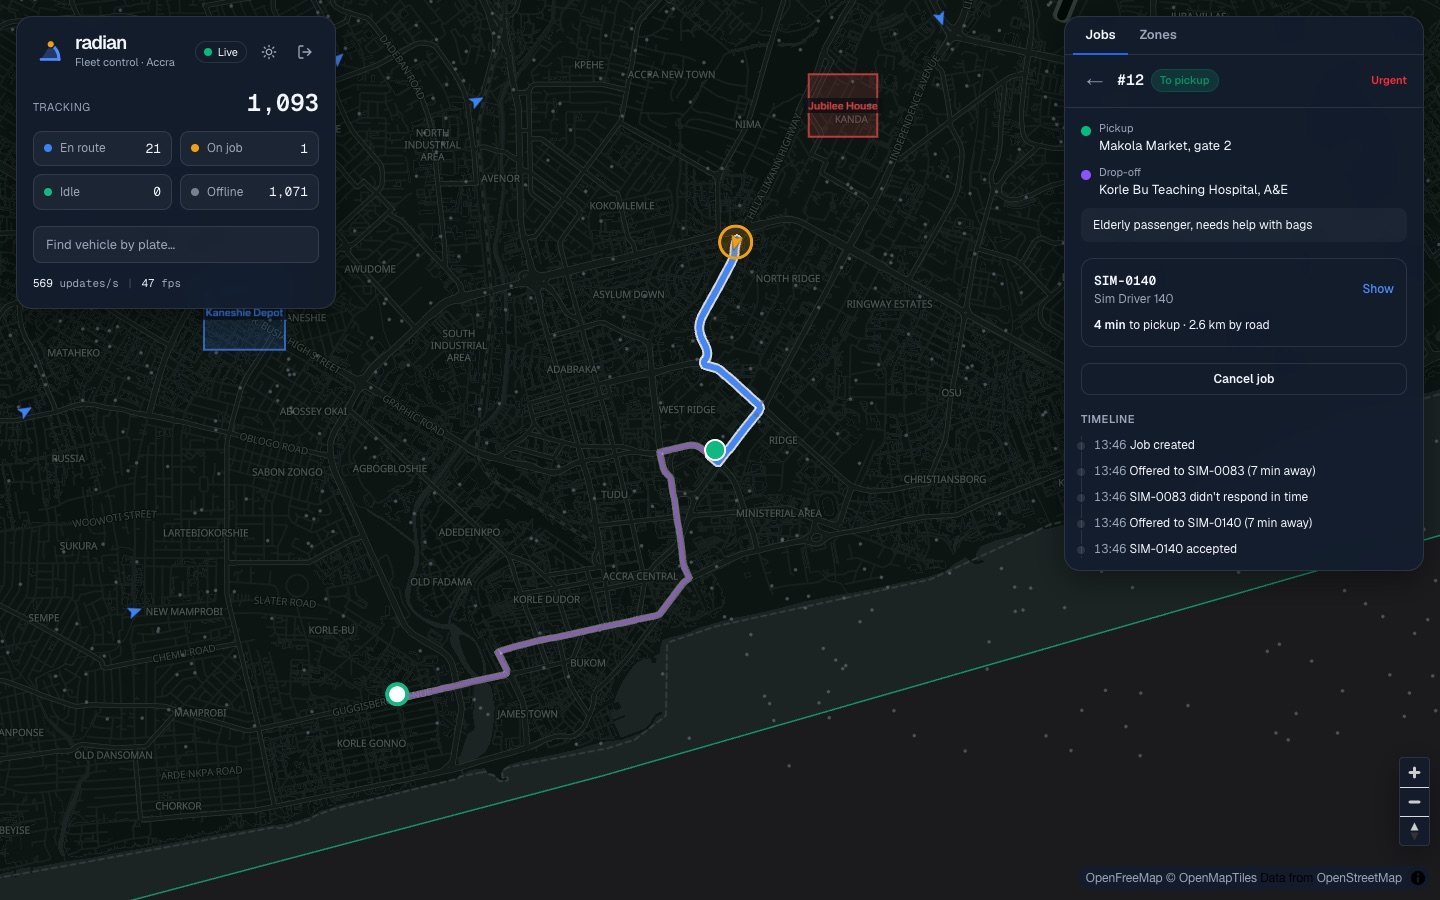
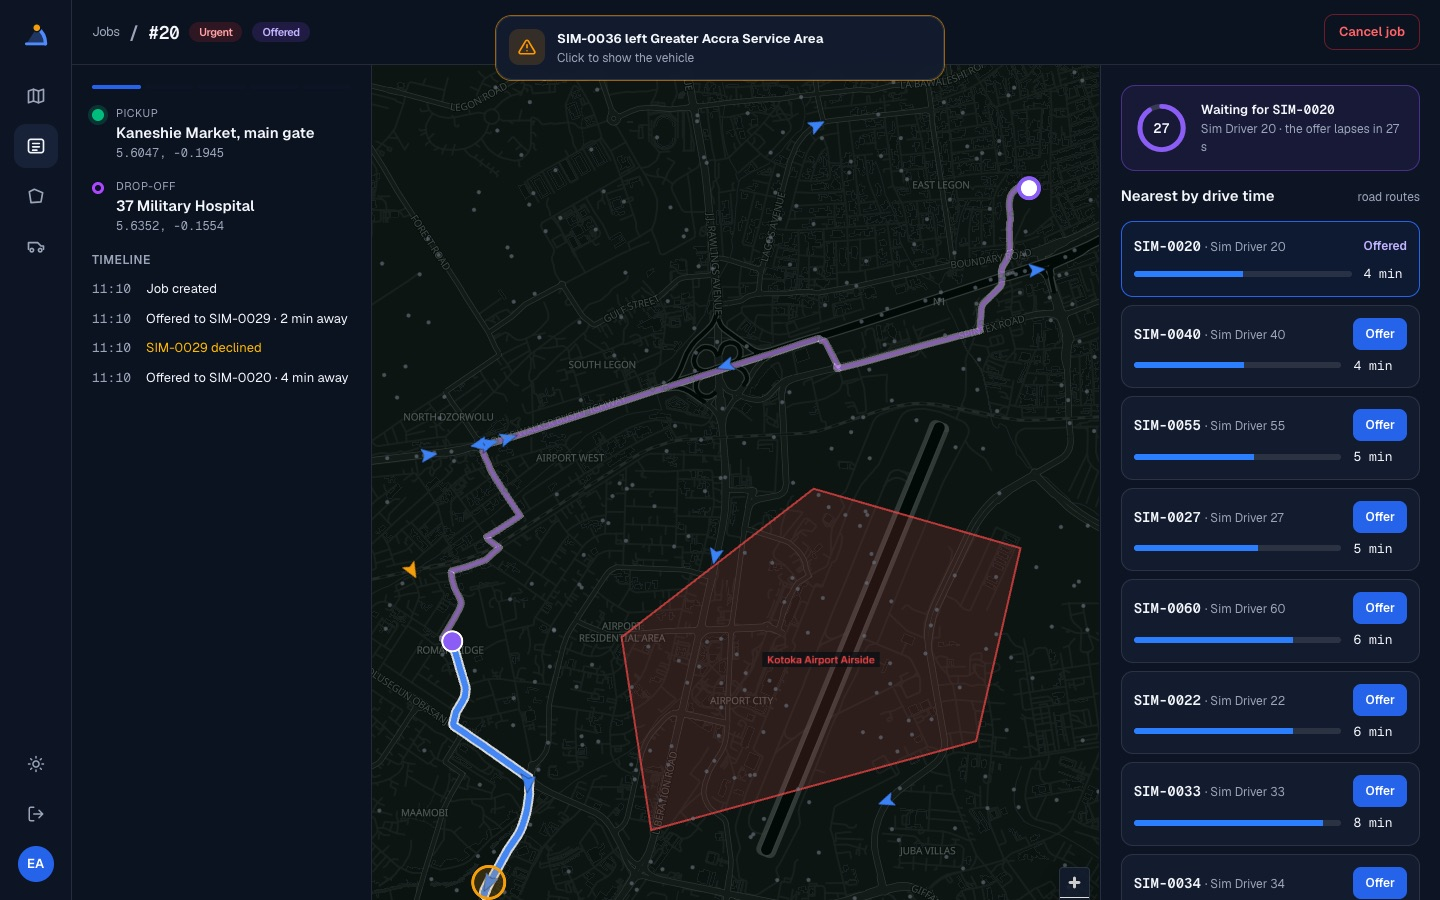
README: screenshots of the new console pages and driver app screens

diff --git a/README.md b/README.md
@@ -11,38 +11,47 @@ See every vehicle live, and send the nearest driver by real drive time.</p>
 Drivers stream GPS from a Flutter app, a Go backend ingests and stores it in TimescaleDB +
 PostGIS, and a Next.js dashboard renders the live fleet with MapLibre + deck.gl.
 
-![Dispatcher dashboard: a job offered to the nearest driver, with the live route to pickup and drop-off](docs/screenshots/web-dispatch-dark.jpg)
+![Dispatch console: a job offered to the nearest driver by drive time, with the road route to pickup and drop-off](docs/screenshots/web-dispatch-dark.jpg)
 
 ## Screenshots
 
-### Dispatcher dashboard
+### Dispatch console
 
 | | |
 |---|---|
-| ![Sign-in](docs/screenshots/web-signin.jpg) | ![Zones with live "vehicles inside" counts, light theme](docs/screenshots/web-zones-light.jpg) |
-| **Sign in.** The brand panel's rings echo the dispatch search radius. | **Zones** (depots, service areas, restricted areas) with live counts of the vehicles inside. |
-| ![A restricted-zone alert and the activity feed](docs/screenshots/web-alerts-dark.jpg) | ![Creating a job: pickup and drop-off clicked on the map](docs/screenshots/web-new-job-light.jpg) |
-| **Alerts.** Entering a restricted zone or leaving the service area raises a toast; every crossing lands in the feed. | **New job.** Click the pickup and drop-off on the map; it goes to the nearest driver by drive time, then the next on a decline or timeout. |
+| ![Live operations: KPIs, the fleet map and what needs attention](docs/screenshots/web-live-dark.jpg) | ![Jobs board, light theme](docs/screenshots/web-jobs-light.jpg) |
+| **Live.** Fleet KPIs over the map, and a "Needs attention" queue: offers about to lapse, jobs with no driver, zone alerts, drivers gone offline mid-job. | **Jobs.** A board by stage (finding a driver, offered, to pickup, to drop-off, done today), or a filterable list. |
+| ![Vehicle detail replaying a shift](docs/screenshots/web-replay-dark.jpg) | ![A zone with its alert rules, light theme](docs/screenshots/web-zone-light.jpg) |
+| **Vehicle replay.** Play back any shift or time window at up to 128×, with distance, driving time, speeding, stops and signal gaps. | **Zones.** Draw depots, service areas and restricted areas; choose per zone whether entering, leaving or lingering raises an alert. |
+| ![Command palette](docs/screenshots/web-palette-dark.jpg) | ![Vehicles list, light theme](docs/screenshots/web-vehicles-light.jpg) |
+| **⌘K** jumps to any plate, driver, job or zone. | **Vehicles.** Every vehicle with its status, driver, battery and last fix. |
+
+<p align="center"><img src="docs/screenshots/web-signin-light.jpg" alt="Console sign-in" width="640"></p>
 
 ### Driver app
 
 <table>
   <tr>
-    <td width="25%"><img src="docs/screenshots/app-signin-ios.png" alt="Driver app sign-in on Night Ink"></td>
-    <td width="25%"><img src="docs/screenshots/app-checklist-android.png" alt="Pre-shift checklist on Android, dark theme"></td>
-    <td width="25%"><img src="docs/screenshots/app-on-shift-ios.png" alt="On shift and live, light theme"></td>
-    <td width="25%"><img src="docs/screenshots/app-end-shift-ios.png" alt="End shift confirmation"></td>
+    <td width="33%"><img src="docs/screenshots/app-off-shift-ios.png" alt="Off shift, with the readiness check"></td>
+    <td width="33%"><img src="docs/screenshots/app-offer-ios.png" alt="A full-screen job offer with a countdown"></td>
+    <td width="33%"><img src="docs/screenshots/app-navigate-ios.png" alt="Navigating to the pickup on the road route"></td>
   </tr>
   <tr>
-    <td><b>Sign in</b> (iOS). The header shrinks while you type so Sign in stays on screen.</td>
-    <td><b>Before you start</b> (Android). Fixes for location, battery saver and the phone maker's background limits.</td>
-    <td><b>On shift.</b> The amber pulse is you: the live vehicle on the dispatcher's map.</td>
-    <td><b>End shift</b> with a summary, so a shift is never ended by accident.</td>
+    <td><b>Off shift.</b> A readiness check (location, battery saver, background limits) before Start shift.</td>
+    <td><b>Job offer.</b> Full screen, with the stops, drive time and a countdown before it moves to the next driver.</td>
+    <td><b>Navigate.</b> The road route to the pickup, then the drop-off, with one button for the next step.</td>
+  </tr>
+  <tr>
+    <td><img src="docs/screenshots/app-live-android.png" alt="On shift and live on Android, dark theme"></td>
+    <td><img src="docs/screenshots/app-summary-ios.png" alt="Shift summary"></td>
+    <td><img src="docs/screenshots/app-history-ios.png" alt="Shift history"></td>
+  </tr>
+  <tr>
+    <td><b>On shift</b> (Android, dark). The amber dot is you: the live vehicle on the dispatcher's map.</td>
+    <td><b>Shift complete.</b> Distance, driving time and jobs, with the route driven.</td>
+    <td><b>History.</b> Past shifts; tap one for its route and totals. Also Jobs and Profile tabs.</td>
   </tr>
 </table>
-
-<p align="center"><img src="docs/screenshots/app-job-offer.png" alt="A job offer with a countdown, and a job in progress" width="420"><br>
-<sub><b>Jobs.</b> An offer counts down before it goes to the next driver; once accepted, the card walks the driver through each stop.</sub></p>
 
 The phone screens come from the integration-test tour, which signs in, drives a simulated route
 and ends the shift: `mobile/tool/tour.sh ios <simulator-udid>` (or `android <serial>`), with the
@@ -147,6 +156,9 @@ the outline). There are three kinds, and each decides what counts as an alert:
 | Service area | a vehicle **leaves** | entries |
 | Depot | none | arrivals and departures |
 
+Those are the defaults; each zone's rules can be changed in the console (alert on enter, alert on
+exit, and alert when a vehicle stays inside longer than a set time).
+
 The `geofencer` reads `telemetry:raw` in its own consumer group and tests each fix against the zones
 in memory (bounding box first, then point-in-polygon). GPS noise at a boundary would otherwise
 cause a burst of enter/exit pairs, so a fix only counts when it is farther from the edge than its
@@ -159,12 +171,14 @@ map and an activity feed.
 PostGIS validates every outline (`ST_IsValid`), so a self-crossing shape is rejected with a clear
 message instead of producing wrong results later.
 
-## Web dashboard
+## Web console
 
-Next.js + MapLibre (OpenFreeMap tiles, no API key) + deck.gl. Fleet state lives outside React in a
-mutable store; a `requestAnimationFrame` loop interpolates every vehicle between fixes and pushes
-fresh layers to deck.gl, while React re-renders the panels at 2 Hz. Markers are sized in meters
-(clamped in pixels) so the fleet stays readable from city to street zoom.
+Next.js + MapLibre (OpenFreeMap tiles, no API key) + deck.gl. A multi-page console: Live, Jobs
+(board, list, new job, per-job dispatch), Zones and Vehicles (detail with track replay), with a
+⌘K palette and light and dark themes. Fleet state lives outside React in a mutable store; a
+`requestAnimationFrame` loop interpolates every vehicle between fixes and pushes fresh layers to
+deck.gl, while React re-renders the panels at 2 Hz. Markers are sized in meters (clamped in pixels)
+so the fleet stays readable from city to street zoom.
 
 ## Backend services
 
